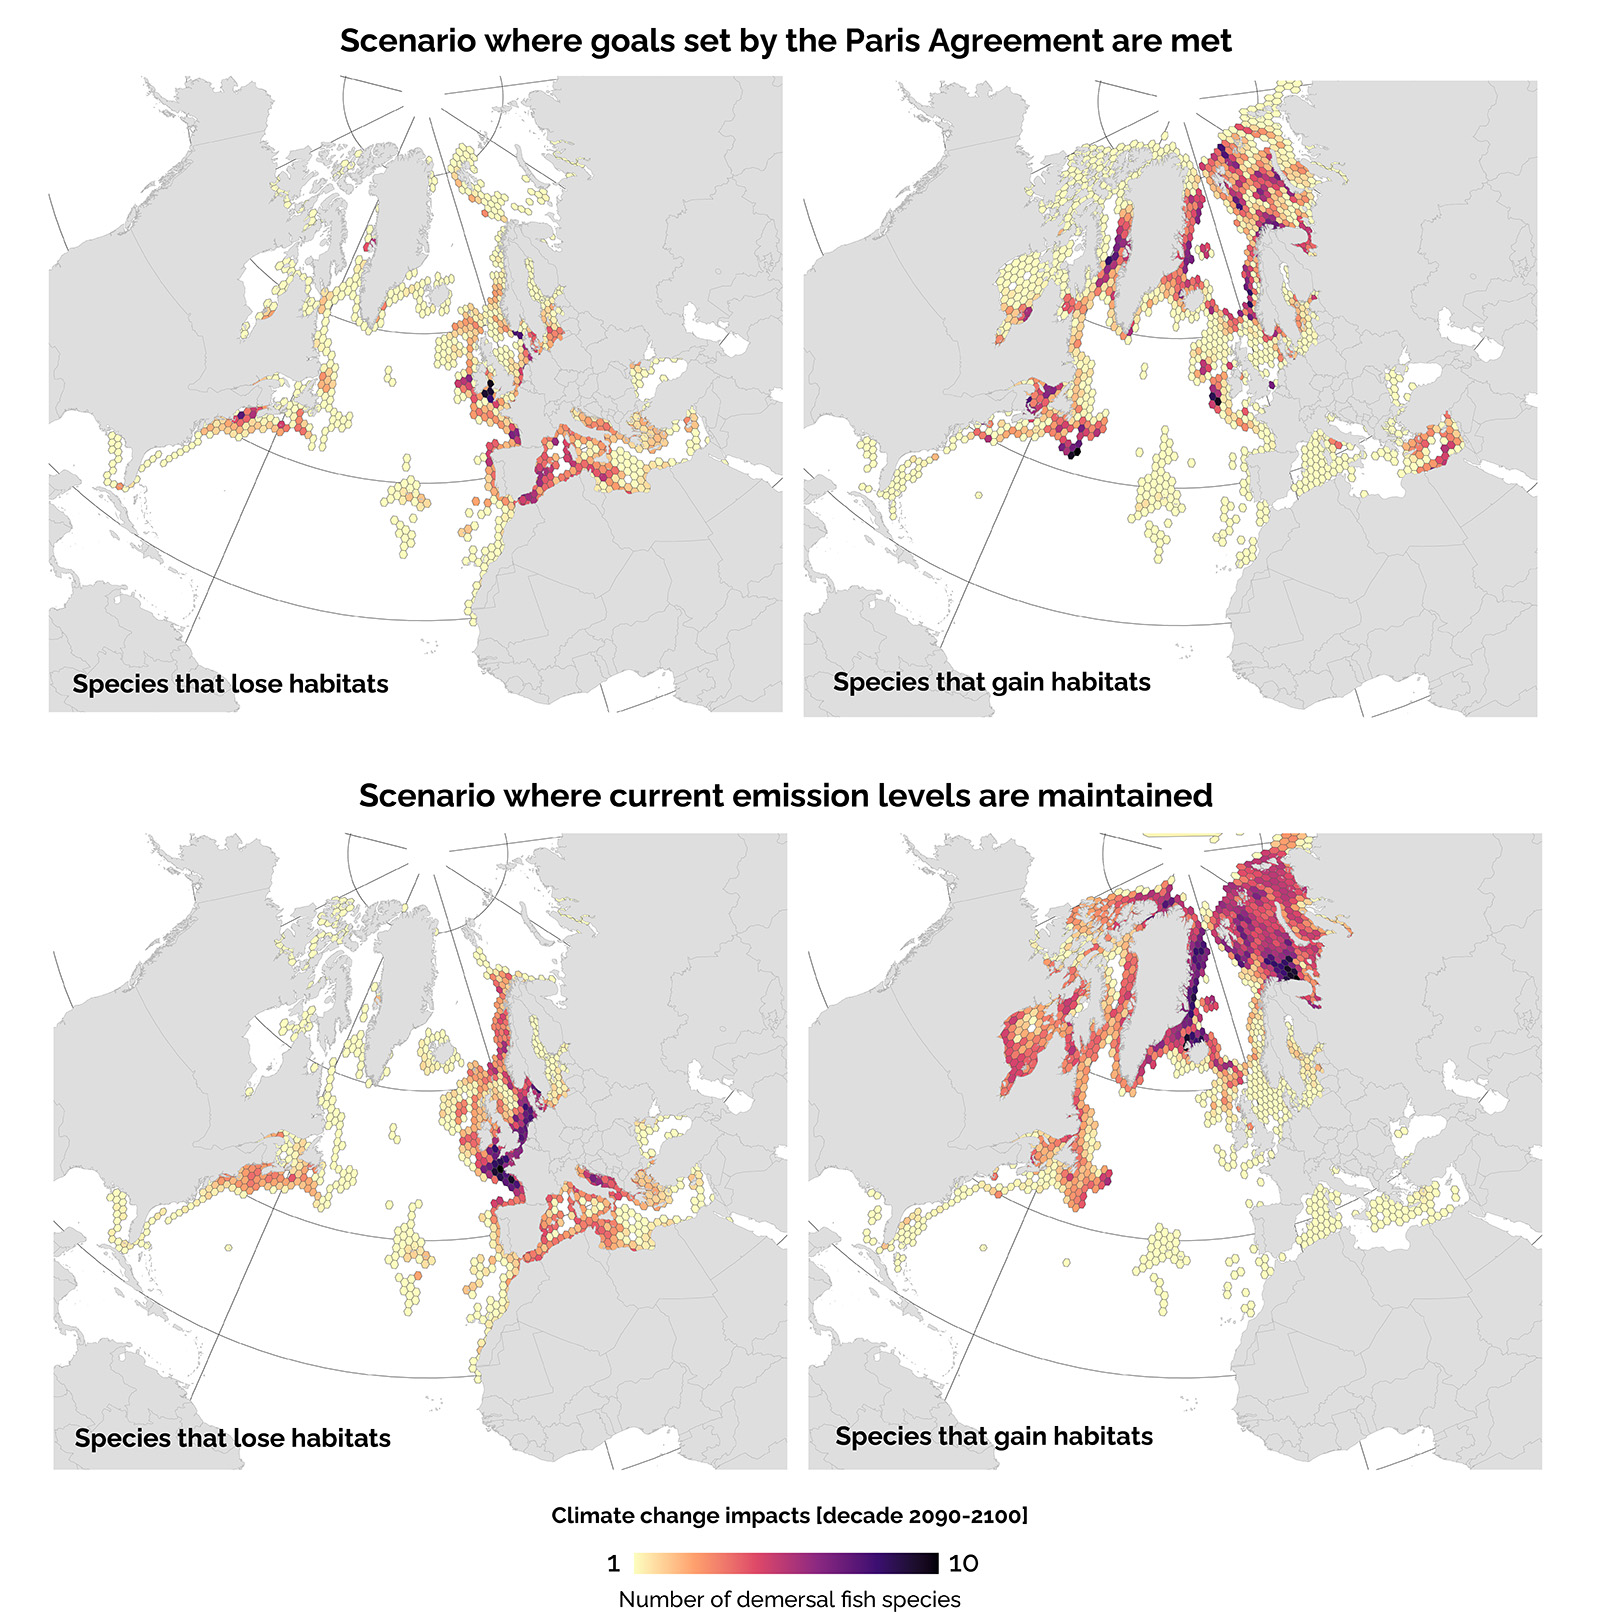
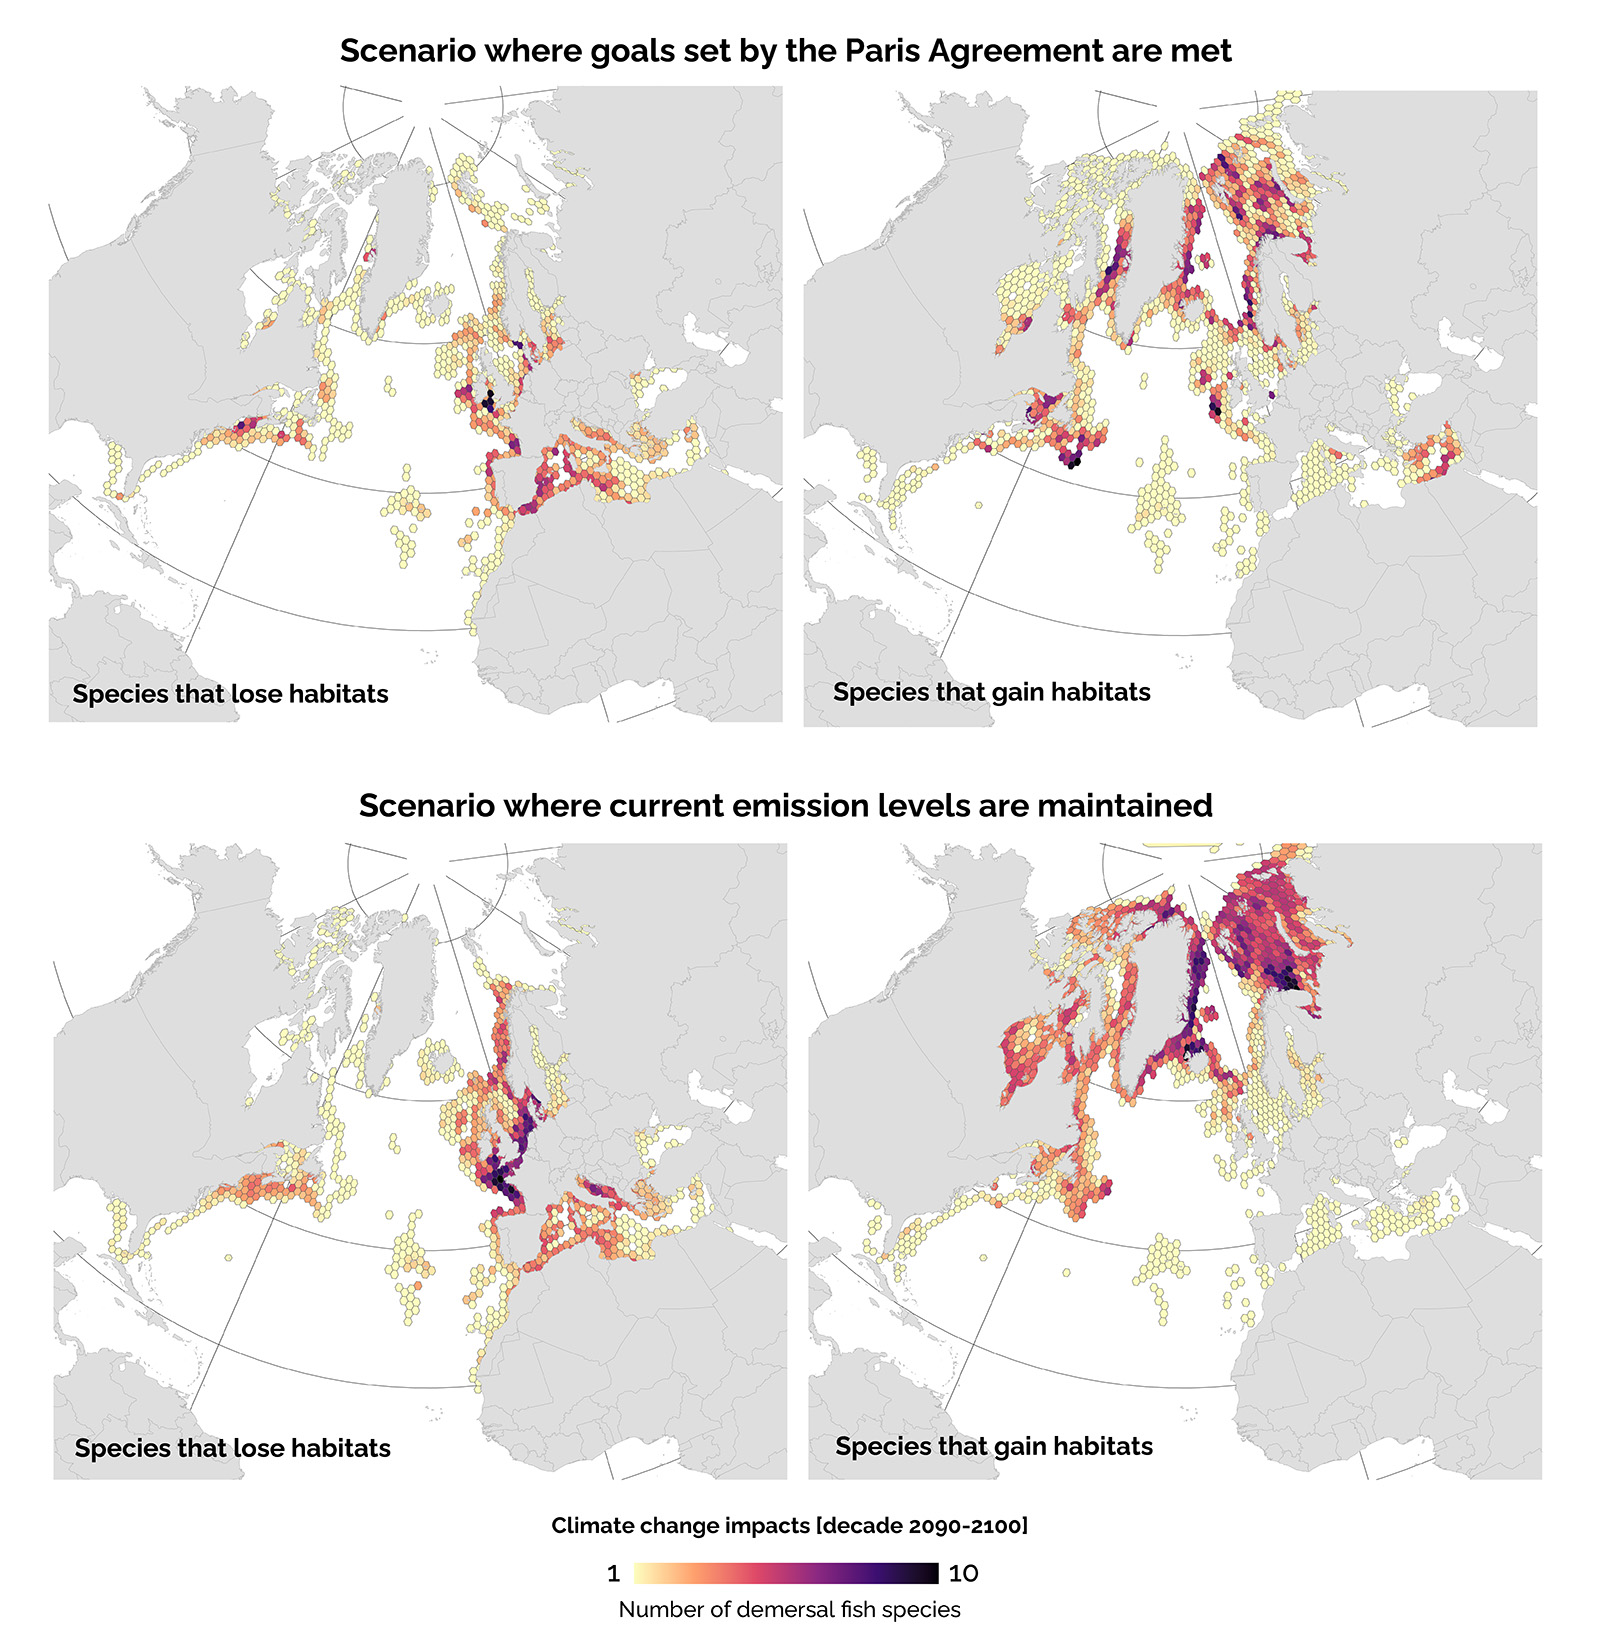
Up.

diff --git a/_posts/journal/2020-3-10-J.md b/_posts/journal/2020-3-10-J.md
@@ -34,6 +34,6 @@ In this publication <b>we demonstrate the benefits of complying with the Paris A
 
 We did this throughout the Northern Atlantic Ocean and analyses of distributional shifts compared current conditions (2000-2017) with two representative concentration pathway scenarios (RCPs) for future climate change (2090-2100): one following the climate constraints of the Paris Agreement (RCP2.6) and another without stringent mitigation measures (RCP8.5).
 
-<img src="{{ site.baseurl }}/assets/images/posts/PressRelease2.jpg" alt="Benefit of the Paris Agreement for fishing targets" style="max-height: 900px;">
+<img src="{{ site.baseurl }}/assets/images/posts/PressRelease2.jpg" alt="Benefit of the Paris Agreement for fishing targets" style="max-height: 950px;">
 
 We use machine learning distribution modelling with biologically informative predictors to project future latitudinal and depth shifts. Overall, we showed that <b> incorporating biologically informative predictors beyond temperature into species distribution modelling can improve predictive performance</b>, and that <b> limiting future climate change by adhering to the Paris Agreement may translate into reduced distribution shifts</b>, supporting biodiversity conservation and resource management.
